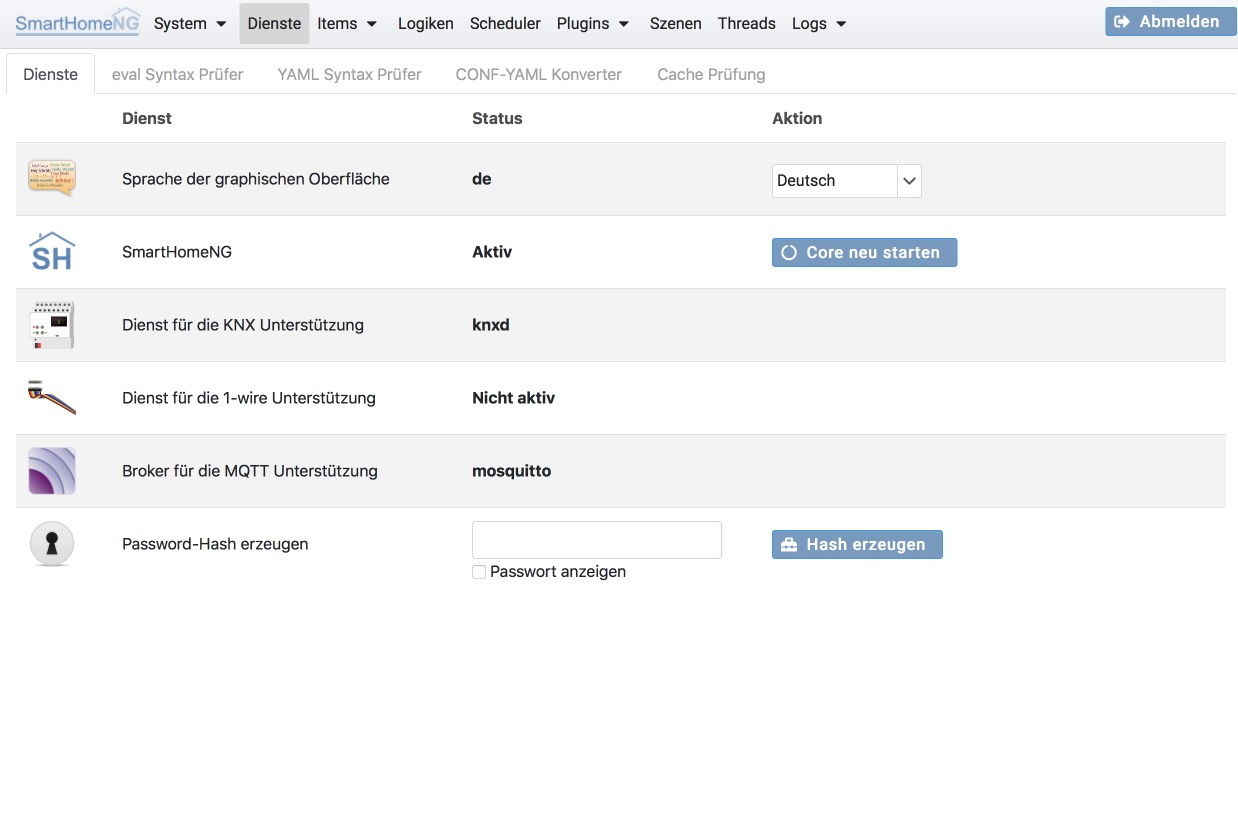
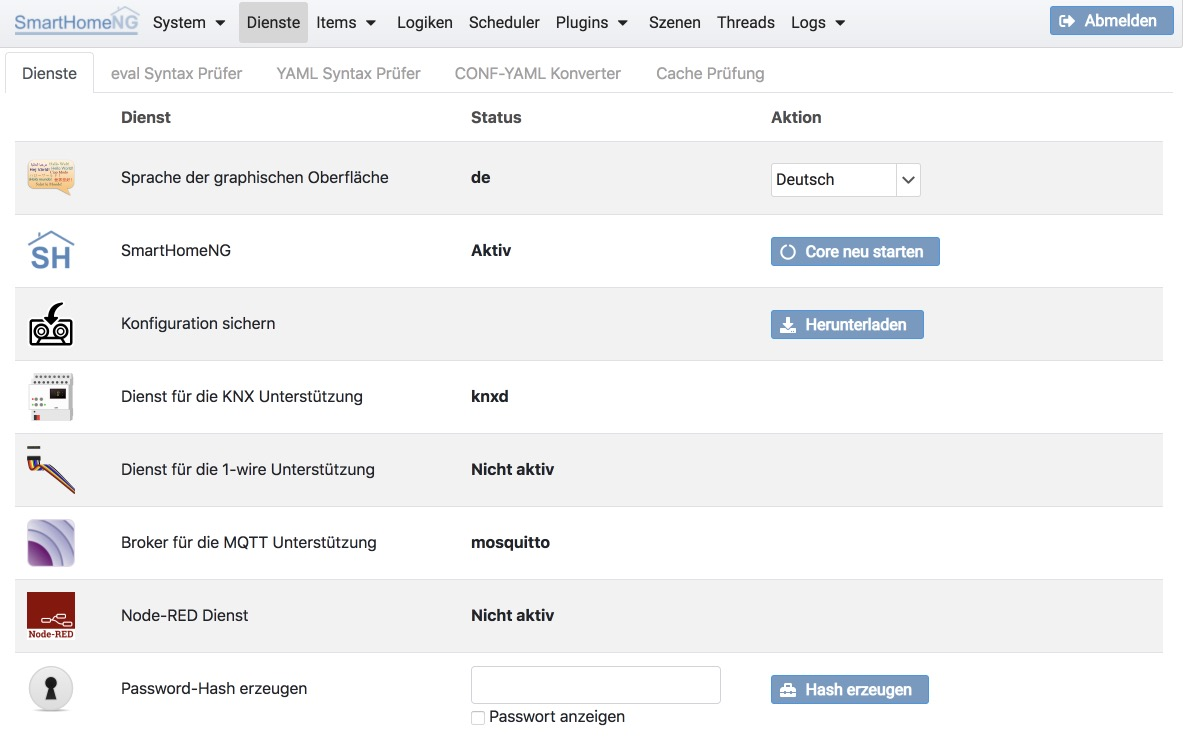
Documentation changes

diff --git a/bin/smarthome.py b/bin/smarthome.py
@@ -1142,17 +1142,18 @@ if __name__ == '__main__':
     # argument handling
     argparser = argparse.ArgumentParser()
     arggroup = argparser.add_mutually_exclusive_group()
-    arggroup.add_argument('-v', '--verbose', help='verbose (info output) logging to the logfile - DEPRECATED use logging.config', action='store_true')
-    arggroup.add_argument('-d', '--debug', help='stay in the foreground with verbose output', action='store_true')
     arggroup.add_argument('-i', '--interactive', help='open an interactive shell with tab completion and with verbose logging to the logfile', action='store_true')
     arggroup.add_argument('-l', '--logics', help='reload all logics', action='store_true')
-    arggroup.add_argument('-s', '--stop', help='stop SmartHomeNG', action='store_true')
     arggroup.add_argument('-r', '--restart', help='restart SmartHomeNG', action='store_true')
-    arggroup.add_argument('-q', '--quiet', help='DEPRECATED use logging config (reduce logging to the logfile)', action='store_true')
+    arggroup.add_argument('-s', '--stop', help='stop SmartHomeNG', action='store_true')
     arggroup.add_argument('-V', '--version', help='show SmartHomeNG version', action='store_true')
     arggroup.add_argument('--start', help='start SmartHomeNG and detach from console (default)', default=True, action='store_true')
     arggroup.add_argument('-cb', '--create_backup', help='create backup of SmartHomeNG configuration (yaml configuration only)', action='store_true')
     argparser.add_argument('-c', '--config_dir', help='use external config dir (should contain "etc", "logics" and "items" subdirectories)')
+
+    arggroup.add_argument('-v', '--verbose', help='verbose (info output) logging to the logfile - DEPRECATED use logging-configuration', action='store_true')
+    arggroup.add_argument('-d', '--debug', help='stay in the foreground with verbose output - DEPRECATED use logging-configuration', action='store_true')
+    arggroup.add_argument('-q', '--quiet', help='reduce logging to the logfile - DEPRECATED use logging-configuration', action='store_true')
     args = argparser.parse_args()
 
     extern_conf_dir = BASE

diff --git a/doc/user/source/admin/dienste.rst b/doc/user/source/admin/dienste.rst
@@ -11,12 +11,32 @@ zu starten und Password-Hashes zu erzeugen (z.B. für das CLI Plugin).
 Weiterhin kann der Status einiger von Plugins genutzter Dienste angesehen werden, soweit diese Dienste auf dem selben
 Rechner laufen wie SmartHomeNG selbt.
 
+
+.. index:: eval Syntax-Prüfer
+.. index:: Dienste; eval Syntax-Prüfer
+.. index:: Backup
+.. index:: Dienste; Backup
+.. index:: Sicherung der Konfiguration
+
+Dienste
+=======
+
+Auf diesem Tab kann der Core von SmartHomeNG neu gestartet werden, sowie die Konfigurationsdaten von SmartHomeNG
+in einem Zip-Archiv herunter geladen werden. Das Zip-Archiv enthält die yaml Konfigurationsdateien aus dem /etc
+Verzeichnis (logging.yaml, logic.yaml, module.yaml, plugin.yaml, smarthome.yaml und struct.yaml). Weiterhin sind
+alle yaml Dateien der Verzeichnisse /items und /scenes enthalten. Außerdem enthält das Archiv den Python Code der
+Logiken aus dem Verzeichnis /logics.
+
 .. image:: assets/services.jpg
    :class: screenshot
 
 
-.. index:: eval Syntax-Prüfer
-.. index:: Dienste; eval Syntax-Prüfer
+In den folgenden Zeilen wird der Status diverser Dienste angezeigt, die optional benötigt werden (abhängig von den
+eingesetzten Plugins).
+
+Außerdem ist es möglich zu einem Passwort einen Hash Wert zu erzeugen, um diesen in der Konfiuration von Plugins zu
+speichern. Für die Passworte, die vom Core bzw. den Modulen verwendet werden ist das nicht notwendig, da hier der
+Hash bei der Konfiguration automatisch erzeugt wird.
 
 eval Syntax-Prüfer
 ==================
